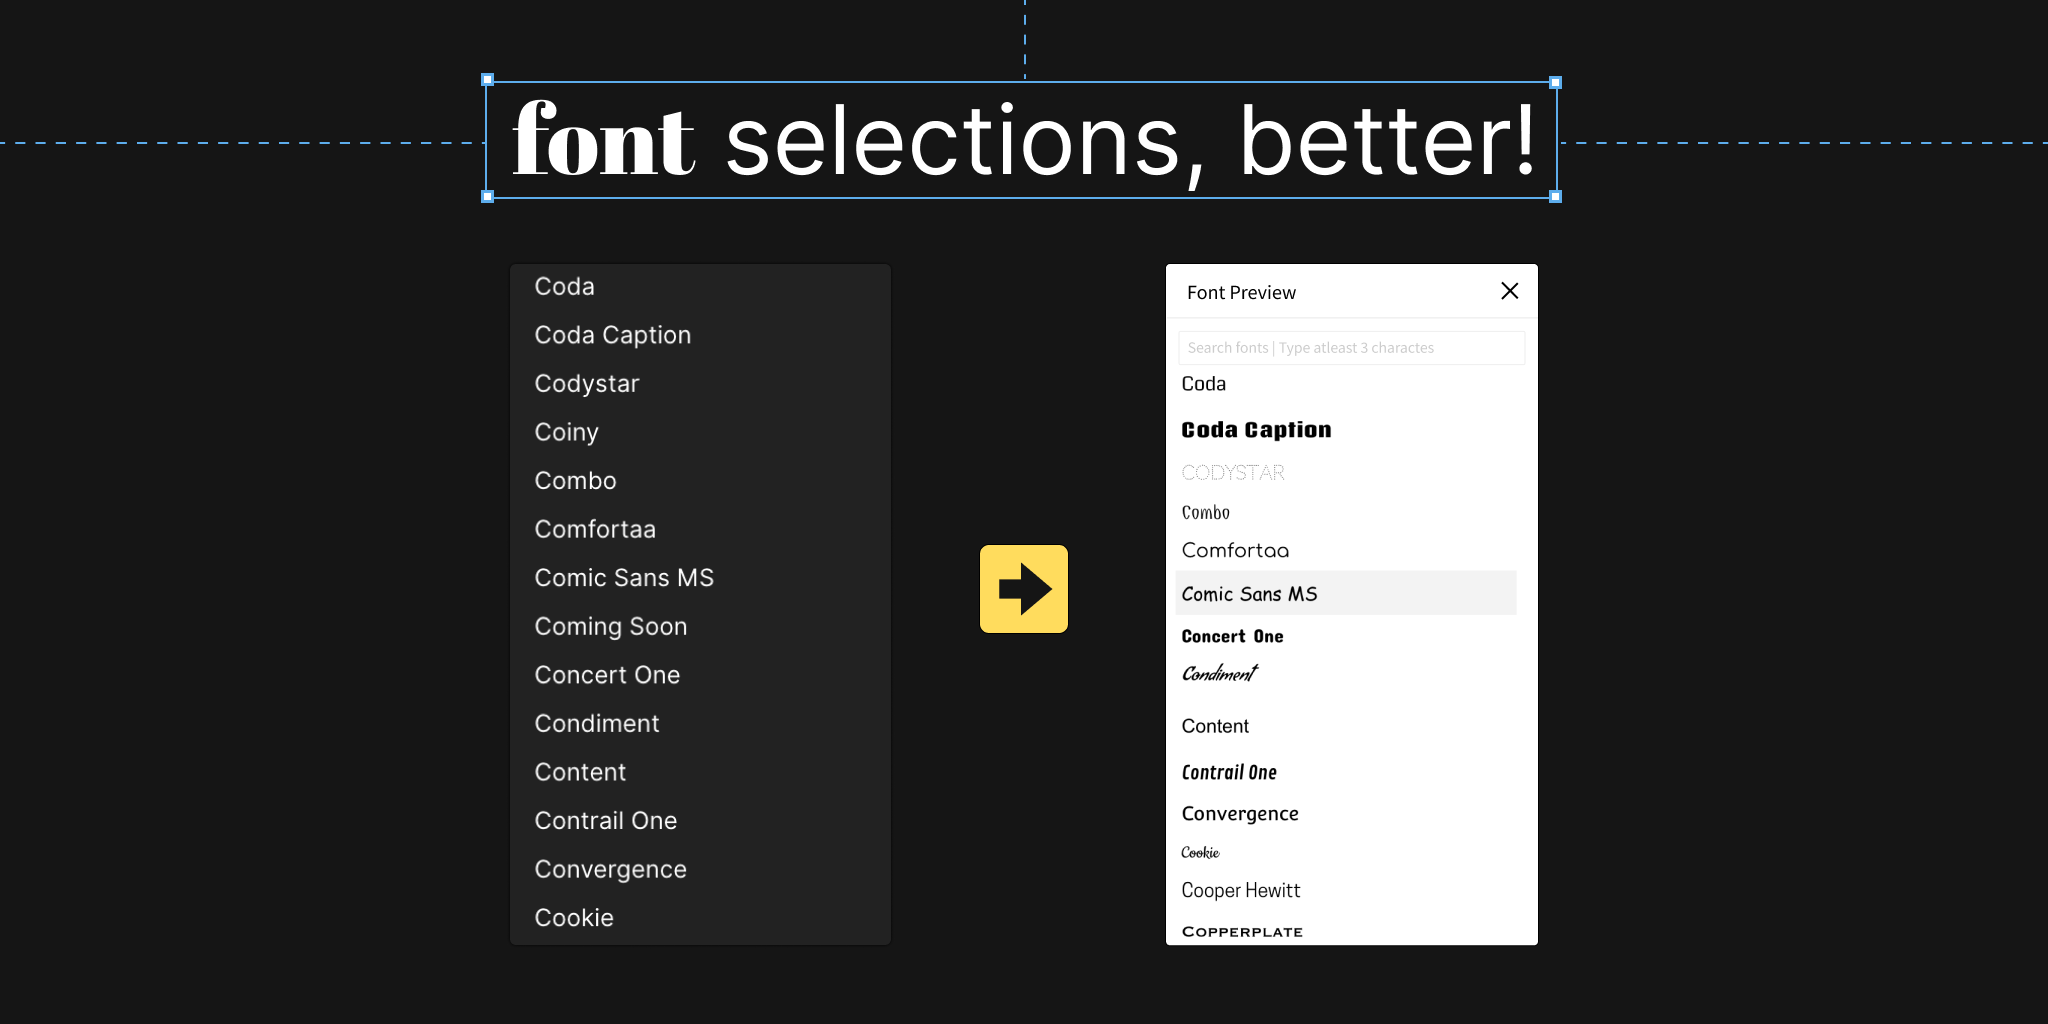
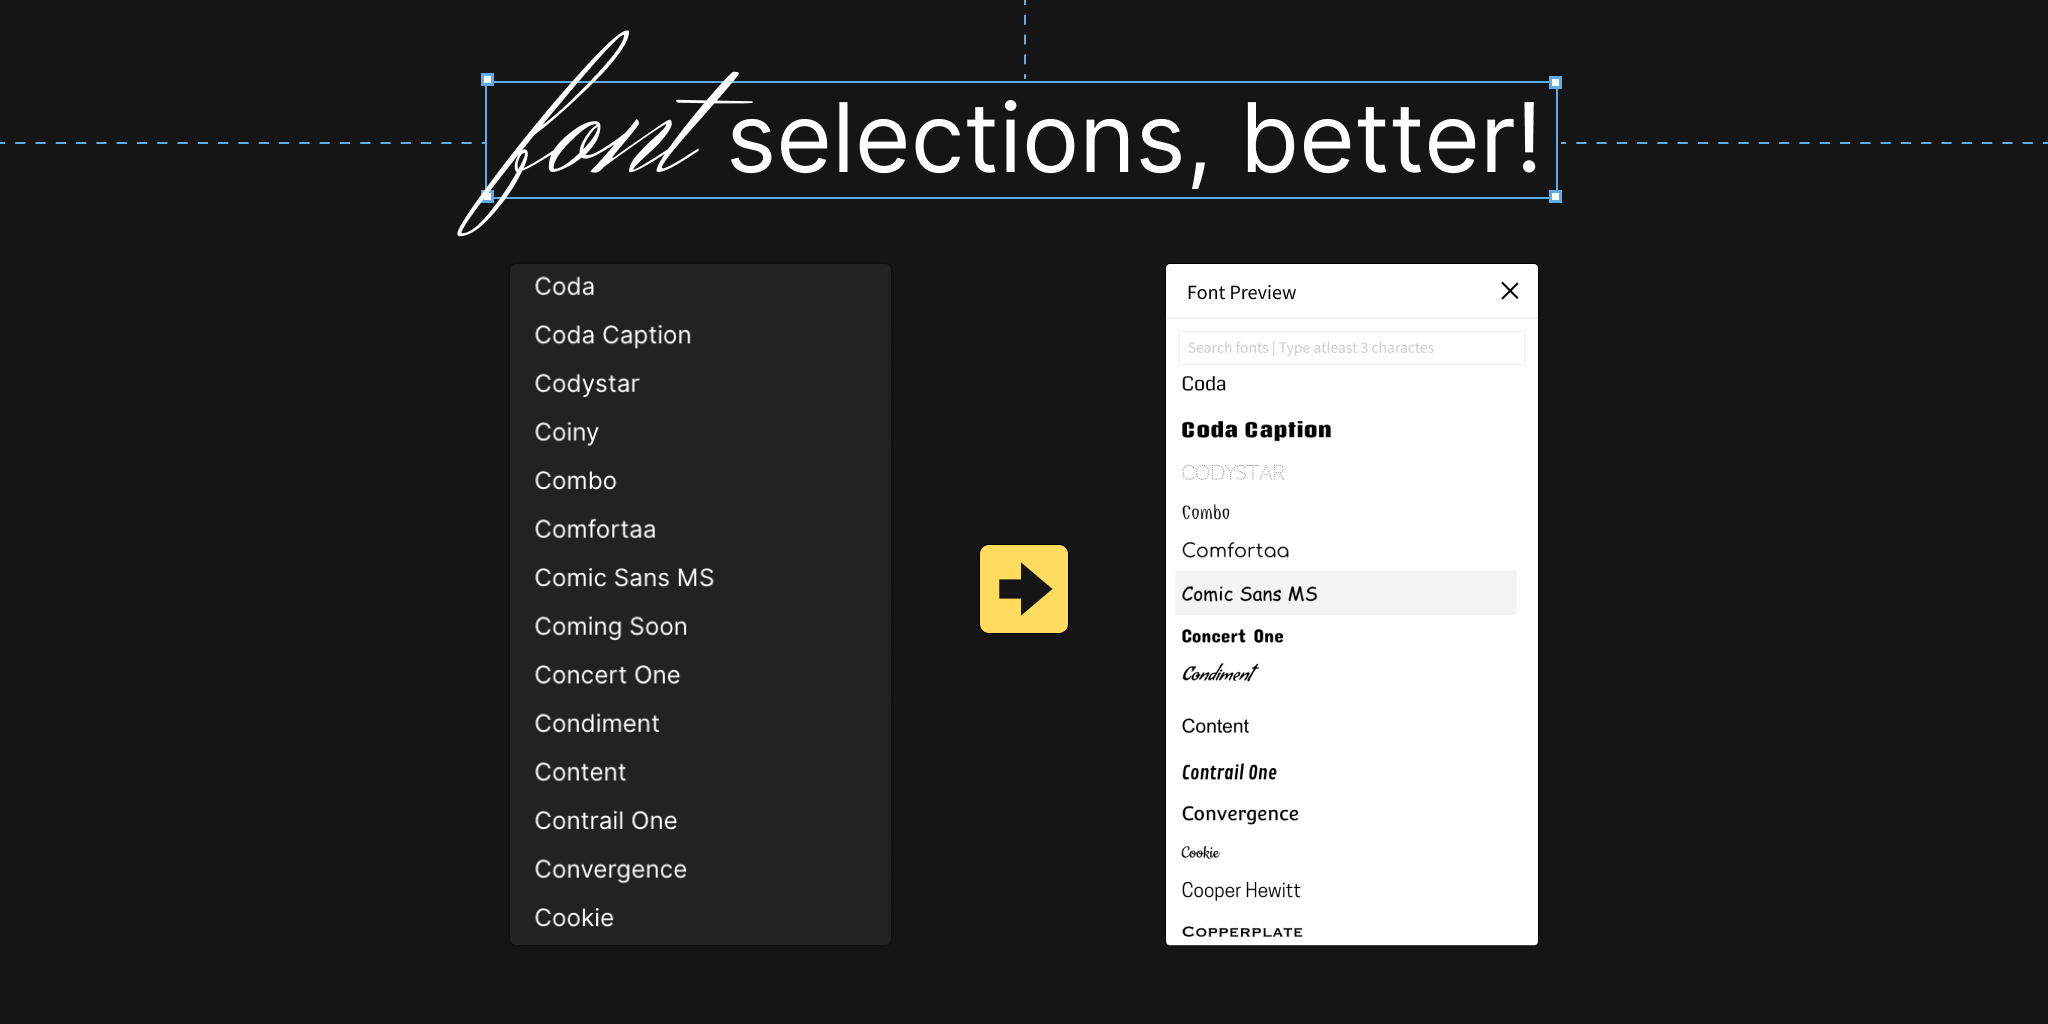
Added more font styles to iteration array while loading the fonts

Changed region(s): [[0.2188, 0.0625, 0.75, 0.2188], [0.2812, 0.0312, 0.3125, 0.0938]]

diff --git a/src/code.js b/src/code.js
@@ -33,7 +33,7 @@ figma.ui.onmessage = msg => {
 
 const loadFont = async (font, node) => {
   console.log(font);
-  let fontStyles = ['Regular', 'Book', 'Plain', 'Normal', 'Mono', 'Medium', 'Light', 'Bold', 'Semi Bold', 'Heavy'];
+  let fontStyles = ['Regular', 'Book', 'Plain', 'Normal', 'Roman', 'Mono', 'Medium', 'Light', 'Italic', 'Bold', 'Semi Bold', 'Heavy'];
   for (let index = 0; index < fontStyles.length; index++) {
     try {
       console.log('Trying font with ' + font + ' ' + fontStyles[index]);

diff --git a/src/ui.js b/src/ui.js
@@ -192,7 +192,7 @@ body.appendChild(s);
 defaultWidth = s.offsetWidth;
 defaultHeight = s.offsetHeight;
 
-/* Function which adds a text layer, calculates the width with defaul ones to 
+/* Function which adds a text layer, calculates the width with defaul ones to
  * detect wether browser has the font installed or not
  */
 const detectFont = (font) =>{
